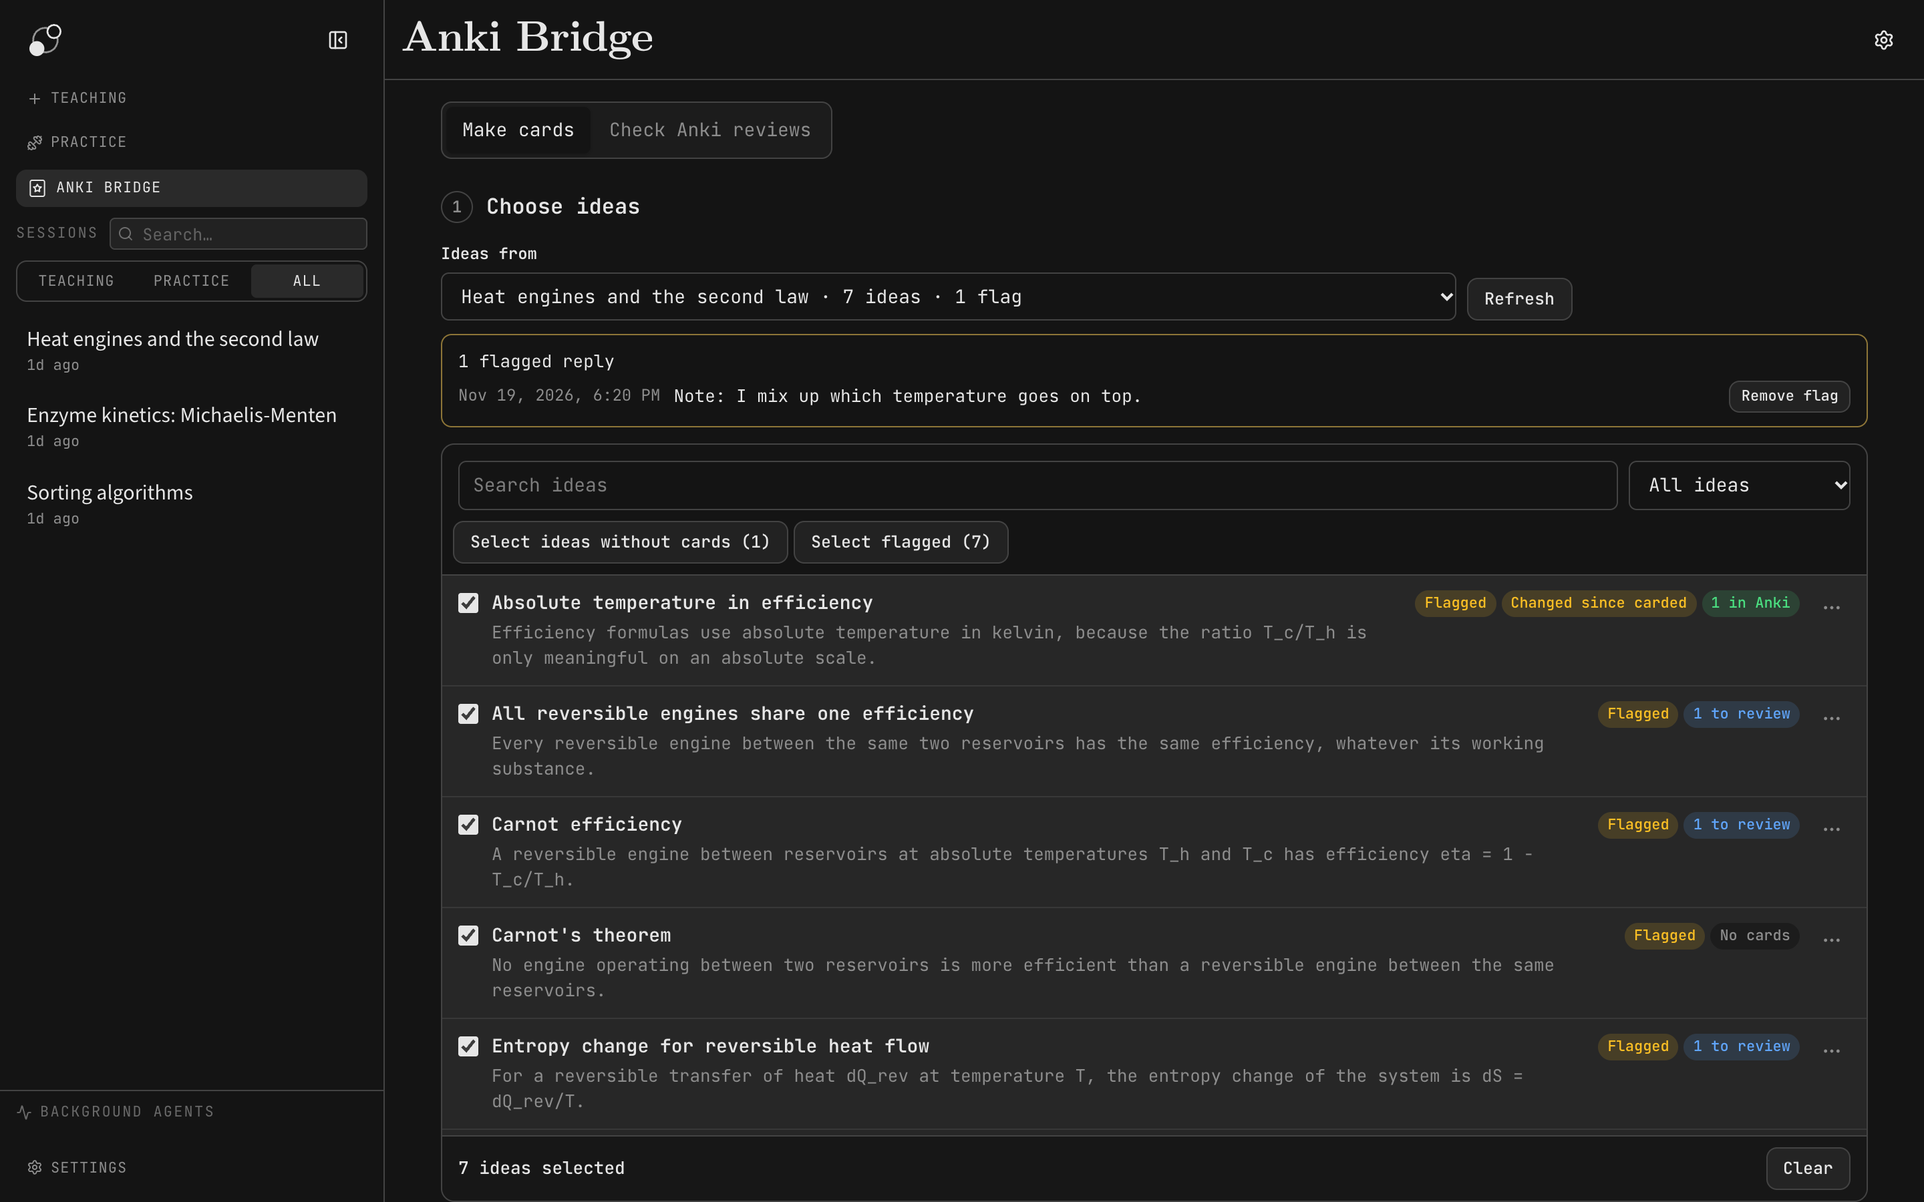
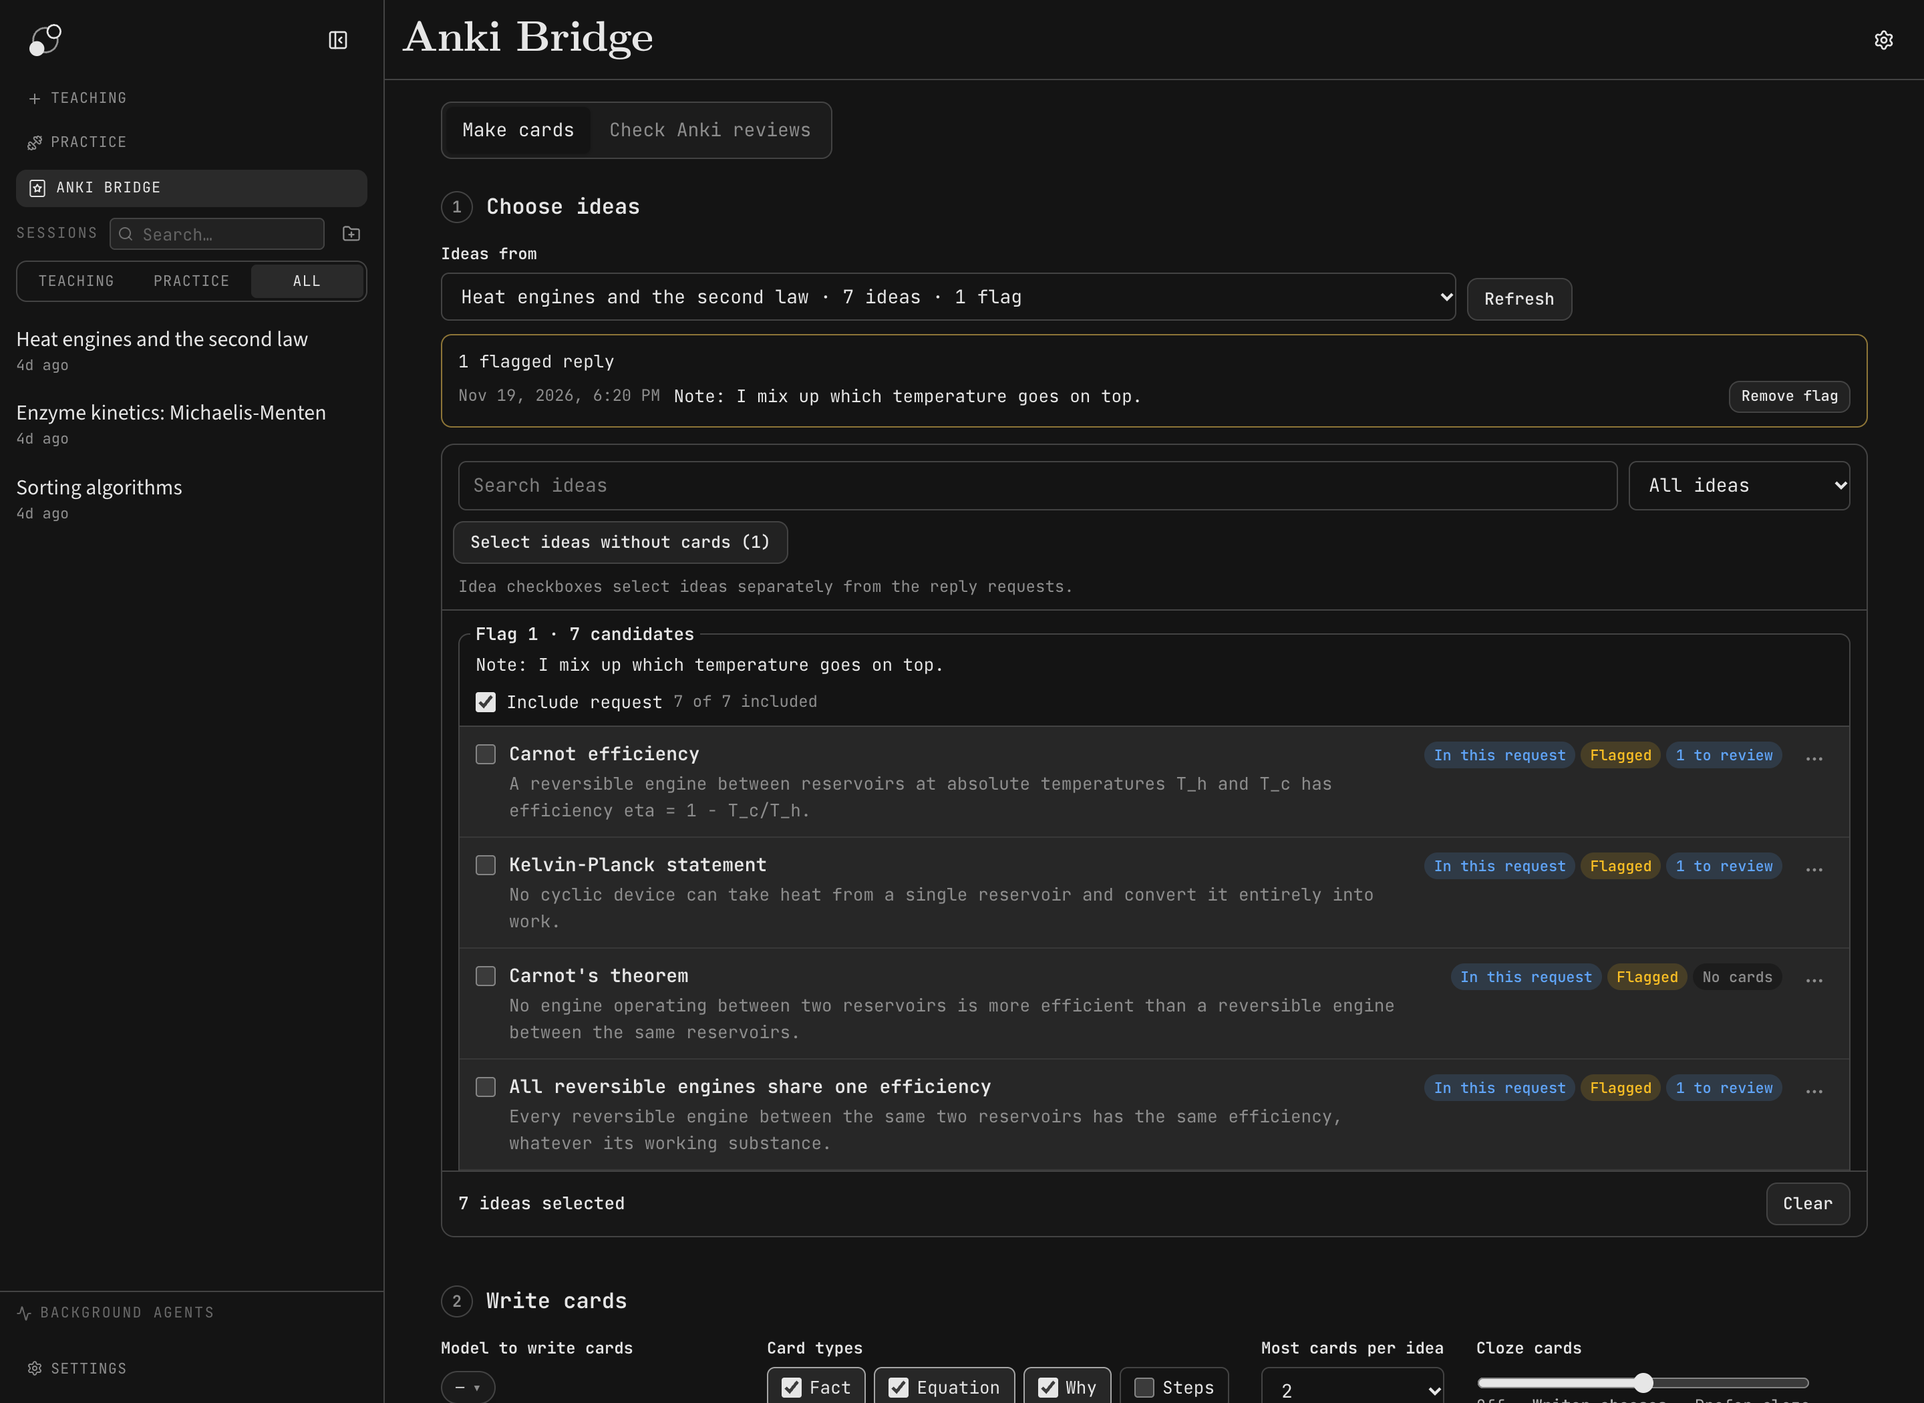
Bind picker requests to the flag revision shown

diff --git a/src/coverage-ui.ts b/src/coverage-ui.ts
@@ -8,7 +8,7 @@ export interface CoverageRow {
   id: string; name: string; statement: string; statementHash?: string;
   cards: CardCounts; coverage?: Coverage; flagged?: boolean;
 }
-export interface CoverageFlag { id: string; note: string; nodeIds: string[]; pendingNodeIds: string[] }
+export interface CoverageFlag { id: string; revision?: string; note: string; nodeIds: string[]; pendingNodeIds: string[] }
 export type CoverageView = Omit<CoverageContext, "nodes" | "missing" | "pairingKey"> & { nodes: CoverageRow[]; missing?: CoverageRow[]; pairingKey?: string; flags?: CoverageFlag[] };
 
 const DOTS = '<svg xmlns="http://www.w3.org/2000/svg" viewBox="0 0 24 24" width="16" height="16" fill="currentColor" aria-hidden="true"><circle cx="5" cy="12" r="1.8"/><circle cx="12" cy="12" r="1.8"/><circle cx="19" cy="12" r="1.8"/></svg>';
@@ -70,7 +70,7 @@ export class CoveragePicker {
     }
     this.scope.setAttribute("aria-label", "Show");
     this.search.type = "search"; this.search.placeholder = "Search ideas"; this.search.setAttribute("aria-label", "Search ideas");
-    const filter = () => { if (this.stale) return; this.selectionWarning.textContent = ""; this.prune(); this.options.changed("user"); this.render(); };
+    const filter = () => { if (this.stale) return; this.selectionWarning.textContent = ""; this.prune(true); this.options.changed("user"); this.render(); };
     this.search.oninput = filter; this.scope.onchange = filter;
     this.toolbar.append(this.search, this.scope);
     const { ctx, signal } = options;
@@ -92,8 +92,11 @@ export class CoveragePicker {
   get ids(): string[] { return [...this.selection()]; }
   get independentNodeIds(): string[] { return [...this.independent]; }
   get backfillNodeIds(): string[] { return this.independentNodeIds.filter(id => this.backfill.has(id)); }
-  get flagScopes(): { id: string; nodeIds: string[] }[] {
-    return [...this.scopes].map(([id, nodes]) => ({ id, nodeIds: [...nodes] }));
+  get flagScopes(): { id: string; revision?: string; nodeIds: string[] }[] {
+    return [...this.scopes].map(([id, nodes]) => {
+      const revision = this.view.flags?.find(f => f.id === id)?.revision;
+      return { id, ...(revision && { revision }), nodeIds: [...nodes] };
+    });
   }
   get isStale(): boolean { return this.stale; }
   get size(): number { return this.view.nodes.length; }
@@ -109,7 +112,7 @@ export class CoveragePicker {
   }
   private historical(n: CoverageRow): boolean { return !!this.view.missing?.includes(n) || n.coverage?.state === "source-missing"; }
   private eligible(n: CoverageRow): boolean { return !this.historical(n) && canSelectNode(n); }
-  private prune(allowed = new Set(this.visible().filter(n => this.eligible(n)).map(n => n.id))): void {
+  private prune(userFiltered: boolean, allowed = new Set(this.visible().filter(n => this.eligible(n)).map(n => n.id))): void {
     for (const id of this.independent) if (!allowed.has(id)) { this.independent.delete(id); this.backfill.delete(id); }
     const flags = new Map(this.view.flags?.map(f => [f.id, f]));
     for (const [id, nodes] of this.scopes) {
@@ -117,7 +120,7 @@ export class CoveragePicker {
       const matches = new Set(manual ? flag?.nodeIds : flag?.pendingNodeIds);
       for (const nodeId of nodes) {
         if (matches.has(nodeId) && allowed.has(nodeId)) continue;
-        if (!manual && matches.has(nodeId)) {
+        if (userFiltered && !manual && matches.has(nodeId)) {
           const pruned = this.prunedDefaults.get(id) ?? new Set<string>();
           pruned.add(nodeId); this.prunedDefaults.set(id, pruned);
         }
@@ -133,10 +136,14 @@ export class CoveragePicker {
     }
     const changed = JSON.stringify(this.view) !== JSON.stringify(view) || this.stale;
     const previousScopes = JSON.stringify(this.flagScopes);
+    const oldFlags = new Map(this.view.flags?.map(f => [f.id, f.revision]));
+    for (const flag of view.flags ?? []) if (oldFlags.has(flag.id) && oldFlags.get(flag.id) !== flag.revision) {
+      this.scopes.delete(flag.id); this.overriddenFlags.delete(flag.id); this.prunedDefaults.delete(flag.id);
+    }
     this.view = view; this.stale = false;
     this.selectionWarning.textContent = "";
     const allowed = new Set(this.visible().filter(n => this.eligible(n)).map(n => n.id));
-    this.prune(allowed);
+    this.prune(false, allowed);
     const scopes = new Map(this.scopes);
     for (const flag of view.flags ?? []) {
       if (this.overriddenFlags.has(flag.id)) continue;

diff --git a/tests/session-integration.test.ts b/tests/session-integration.test.ts
@@ -33,7 +33,8 @@ test('a session scope reaches writing with flagged and bulk intent, saved caps, 
   let dispose: void | (() => void | Promise<void>) = undefined;
   const cleanup: Array<() => void> = [];
   try {
-    await f.c.call('flag', { sessionId: 'c1', messageIds: ['m2'], note: 'Check the closed-system condition' });
+    const flag = await f.c.call('flag', { sessionId: 'c1', messageIds: ['m2'], note: 'Check the closed-system condition' });
+    const flagScopes = [{ id: flag.id, revision: flag.revision, nodeIds: ['n_b'] }];
     let view!: PluginView;
     const calls: Array<{ name: string; input: any }> = [];
     const ctx = {
@@ -59,14 +60,14 @@ test('a session scope reaches writing with flagged and bulk intent, saved caps, 
     assert.equal((container.querySelector('.ab-source-select') as unknown as HTMLSelectElement).value, 'c1');
     button(/^Write cards for 1 idea/).click();
     await until(() => !!dialog(), 'first estimate dialog');
-    assert.deepEqual(calls.filter(c => c.name === 'preflight').at(-1)?.input, { nodeIds: ['n_b'], backfillNodeIds: [] });
+    assert.deepEqual(calls.filter(c => c.name === 'preflight').at(-1)?.input, { nodeIds: ['n_b'], backfillNodeIds: [], flagScopes, independentNodeIds: [] });
     assert.match(dialog()!.textContent!, /Up to 12/);
     button('Cancel').click(); await settle();
     button('Select ideas without cards (2)').click(); await settle();
     assert.match(ideas().textContent!, /2 ideas selected/);
     button(/^Write cards for 2 ideas/).click();
     await until(() => !!dialog(), 'second estimate dialog');
-    assert.deepEqual(calls.filter(c => c.name === 'preflight').at(-1)?.input, { nodeIds: ['n_a', 'n_b'], backfillNodeIds: ['n_a', 'n_b'] });
+    assert.deepEqual(calls.filter(c => c.name === 'preflight').at(-1)?.input, { nodeIds: ['n_a', 'n_b'], backfillNodeIds: ['n_a', 'n_b'], flagScopes, independentNodeIds: ['n_a', 'n_b'] });
     button('Cancel').click(); await settle();
     assert.equal(calls.some(c => c.name === 'generate'), false);
     assert.equal(f.host.workers.starts.length, 0);
@@ -80,7 +81,7 @@ test('a session scope reaches writing with flagged and bulk intent, saved caps, 
     assert.match(dialog()!.textContent!, /Up to 16/);
     button('Start writing').click();
     await until(() => f.host.workers.starts.length === 1, 'generation start');
-    f.host.workers.succeed('task-1', { targets: ['n_a', 'n_b'].map(nodeId => ({ nodeId, cards: [{ kind: 'fact',
+    f.host.workers.succeed('task-1', { targets: ['n_a', 'n_b'].map(nodeId => ({ nodeId, ...(nodeId === 'n_b' ? { flagMatches: [flag.id] } : {}), cards: [{ kind: 'fact',
       front: 'Which condition is required for the first result in this lecture to hold?', back: 'Assumption A.' }] })) });
     await until(async () => {
       await settle(); // Include the panel's normal polling interval, not a manual refresh.
@@ -251,6 +252,7 @@ test('flag notes reach saved writer input and worker prompt; changing a note inv
     await f.c.call('flag', { sessionId: 'c1', messageIds: ['m1'], note: 'Explain why assumption A is necessary' });
     await assert.rejects(f.c.call('generate', { preflightId: old.preflightId }), /stale/);
     assert.equal(f.host.workers.starts.length, 0);
+    await assert.rejects(f.c.call('preflight', { ...selection, flagScopes: [{ ...selection.flagScopes[0], revision: flag.revision }] }), /flag or its ideas changed/);
     const p = await f.c.call('preflight', selection);
     const snapshot = await f.c.call('generate', { preflightId: p.preflightId });
     assert.deepEqual(snapshot.generations[0].tasks[0].input.flagRequests, [{ id: flag.id, note: 'Explain why assumption A is necessary', nodeIds: ['n_a'] }]);

diff --git a/src/generation/flag-selection.ts b/src/generation/flag-selection.ts
@@ -1,6 +1,6 @@
 import { flagRevision, matchFlag, MAX_FLAGS, type Flag, type FlagReference, type GraphLike } from '../session/flow.ts';
 
-export interface FlagScope { id: string; nodeIds: string[] }
+export interface FlagScope { id: string; revision?: string; nodeIds: string[] }
 export interface FlagSelection { scopes: FlagScope[]; independent: string[] }
 export interface ResolvedFlag extends FlagReference { note: string }
 
@@ -14,21 +14,21 @@ export function readFlagSelection(scopes: unknown, independent: unknown, ids: st
   }
   const seen = new Set<string>(), covered = new Set(independent);
   for (const scope of scopes) {
-    if (!scope || typeof scope.id !== 'string' || !scope.id || seen.has(scope.id) || !subset(scope.nodeIds) || !scope.nodeIds.length) {
+    if (!scope || typeof scope.id !== 'string' || !scope.id || seen.has(scope.id) || (scope.revision !== undefined && typeof scope.revision !== 'string') || !subset(scope.nodeIds) || !scope.nodeIds.length) {
       throw new Error('Invalid or duplicate flag scope. Refresh the picker.');
     }
     seen.add(scope.id);
     for (const id of scope.nodeIds) covered.add(id);
   }
   if (covered.size !== ids.length) throw new Error('Each selected idea must belong to a flag scope or be independently selected.');
-  return { scopes: scopes.map(({ id, nodeIds }) => ({ id, nodeIds })), independent };
+  return { scopes: scopes.map(({ id, nodeIds, revision }) => ({ id, nodeIds, ...(revision !== undefined && { revision }) })), independent };
 }
 
 export function resolveFlags(scopes: FlagScope[], flags: readonly Flag[], graph: GraphLike): ResolvedFlag[] {
   return scopes.map(scope => {
     const flag = flags.find(f => f.id === scope.id);
     const matches = flag && new Set(matchFlag(flag, graph));
-    if (!flag || !matches || scope.nodeIds.some(id => !matches.has(id))) {
+    if (!flag || !matches || (scope.revision !== undefined && scope.revision !== flagRevision(flag)) || scope.nodeIds.some(id => !matches.has(id))) {
       throw new Error('A selected flag or its ideas changed. Refresh and select the flag again.');
     }
     return { ...scope, revision: flagRevision(flag), note: flag.note };

diff --git a/src/session/service.ts b/src/session/service.ts
@@ -6,7 +6,7 @@ import { graphCoverage, statementHash } from '../coverage/service.ts';
 import type { Coverage, CoverageNode } from '../coverage/flow.ts';
 import { extractedMessageIds } from './extraction.ts';
 import {
-  failedOutputCallIds, flagIdeaHandled, matchFlag, MAX_FLAG_MESSAGES, MAX_FLAGS, normalizeNote, sessionNodeIds, teacherProse,
+  failedOutputCallIds, flagIdeaHandled, flagRevision, matchFlag, MAX_FLAG_MESSAGES, MAX_FLAGS, normalizeNote, sessionNodeIds, teacherProse,
 } from './flow.ts';
 import type { CardCounts, Flag, GraphLike, MessageLike } from './flow.ts';
 
@@ -89,14 +89,15 @@ export class SessionService {
     return flags.map(flag => {
       const nodeIds = matchFlag(flag, graph);
       const pendingNodeIds = nodeIds.filter(id => !flagIdeaHandled(flag, id, statementHash(statements.get(id)!)));
+      const scope = { revision: flagRevision(flag), nodeIds, pendingNodeIds };
       if (!records.has(flag.sessionId)) records.set(flag.sessionId, this.session(flag.sessionId));
       const record = records.get(flag.sessionId);
-      if (!record || flag.messageIds.some(id => !record.messages.some(m => m.id === id))) return { ...flag, status: 'missing', nodeIds, pendingNodeIds };
-      if (nodeIds.length) return { ...flag, status: 'matched', nodeIds, pendingNodeIds };
+      if (!record || flag.messageIds.some(id => !record.messages.some(m => m.id === id))) return { ...flag, status: 'missing', ...scope };
+      if (nodeIds.length) return { ...flag, status: 'matched', ...scope };
       ledger ??= this.covered();
       const covered = new Set(ledger.filter(e => e.chatId === flag.sessionId).map(e => e.fp));
       const extracted = extractedMessageIds(record.messages, covered, flag.messageIds);
-      return { ...flag, status: flag.messageIds.every(id => extracted.has(id)) ? 'no-nodes' : 'waiting', nodeIds, pendingNodeIds };
+      return { ...flag, status: flag.messageIds.every(id => extracted.has(id)) ? 'no-nodes' : 'waiting', ...scope };
     });
   }
 

diff --git a/tests/coverage-ui.test.ts b/tests/coverage-ui.test.ts
@@ -247,6 +247,25 @@ test("session bulk picks stay independent of grouped matches and filters prune b
   } finally { await f.close(); }
 });
 
+test("pending flag choices return after a failed run and note edits reset old group choices", async () => {
+  const f = setup();
+  try {
+    const flags = [{ ...flag("request", ["alpha"]), revision: "original" }];
+    const view = { ...f.view, nodes: [row("alpha", {}, { flagged: true })], flags };
+    f.picker.update(view, true);
+    assert.equal(f.includeFlag(1).checked, true);
+    f.picker.update({ ...view, nodes: [row("alpha", { generating: true, selectable: false })] });
+    assert.equal(f.includeFlag(1).checked, false);
+    f.picker.update(view);
+    assert.equal(f.includeFlag(1).checked, true);
+    f.includeFlag(1).click();
+    f.picker.update(view);
+    assert.equal(f.includeFlag(1).checked, false);
+    f.picker.update({ ...view, flags: [{ ...flags[0], revision: "edited", note: "New focus" }] });
+    assert.deepEqual(f.picker.flagScopes, [{ id: "request", revision: "edited", nodeIds: ["alpha"] }]);
+  } finally { await f.close(); }
+});
+
 test("current dismissal remains visible and restorable when the primary label is Sent", async () => {
   const f = setup();
   try {

diff --git a/README.md b/README.md
@@ -36,7 +36,7 @@ Anki Bridge is a community plugin for [LearnHarness](https://github.com/amosblom
 
 ### Flag replies while you learn
 
-When a teaching reply covers something you want to keep, press **Flag for Anki** in the session's top bar. This flags the latest finished reply and every idea LearnHarness extracts from it. You can add a note for the card writer, such as a mistake you made. Cmd+Shift+A, or Ctrl+Shift+A on Windows and Linux, flags the reply straight away, and the confirmation offers to add a note. **Make cards** in the same bar opens Anki Bridge with the session's pending flagged ideas ticked. Once the writer saves a draft for a flagged idea, it stops being ticked by default. You can still pick it by hand or use **Select flagged**.
+When a teaching reply covers something you want to keep, press **Flag for Anki** in the session's top bar. This flags the latest finished reply. Without a note, the flag asks for a card for each idea LearnHarness extracts from the reply. Add a note, such as a mistake you made, to ask the writer to focus on the ideas that answer it. Cmd+Shift+A, or Ctrl+Shift+A on Windows and Linux, flags the reply straight away and offers to add a note.
 
 Flagging is optional. You can make cards for any idea in your graph.
 
@@ -44,9 +44,11 @@ Flagging is optional. You can make cards for any idea in your graph.
 
 Open **Anki Bridge** from the LearnHarness sidebar. The **Make cards** tab has three steps, top to bottom.
 
-Under **Ideas from**, pick a session or your whole graph, then tick the ideas you want cards for. Each idea has a badge such as Flagged, No cards, 1 to review, 1 in Anki or Changed since carded. **Select ideas without cards** ticks every idea in the current view that has none, up to 1,000. To leave an idea out of future card writing, choose **Don't make cards for this idea** from its menu.
+Under **Ideas from**, pick a session or your whole graph. **Make cards** in the session bar takes you straight to that session. Each reply flag groups its candidate ideas and starts included if its request is still pending. Use **Include request** to turn the group on or off. The checkbox next to an idea selects it separately, even if you turn off its flag.
 
-![Step 1, Choose ideas. A flag banner with the note about temperatures sits above a list of ideas from the heat engines session with badges such as Flagged, No cards, 1 to review, 1 in Anki and Changed since carded. A bar at the bottom reads 7 ideas selected.](docs/images/readme/choose-ideas.png)
+Once the writer satisfies a flag request, it stops being included by default. You can still select it again or tick an idea on its own. **Select ideas without cards** ticks ideas in the current view that have none, up to 1,000. To leave an idea out of future writing, choose **Don't make cards for this idea** from its menu.
+
+![Choose ideas in the heat engines session. A reply flag groups seven candidates under a note about temperatures. Include request is checked and the checkboxes for picking ideas separately are clear.](docs/images/readme/choose-ideas.png)
 
 ### 2. Write cards
 

diff --git a/CHANGELOG.md b/CHANGELOG.md
@@ -4,7 +4,7 @@ Newest first. Versions before 0.9.0 were merged to `main` for personal use while
 
 | Version | Pull request | Changes |
 | --- | --- | --- |
-| 0.9.1 | [Integration branch](https://github.com/Singh-Mehtab/learnharness-anki-bridge/compare/main...feat/0.9.1) | Adds single-blank Cloze cards for Fact and Equation, with a Cloze slider and a model reasoning picker in Write. Shows the version next to the Settings title, lets you undo approval before sending, checks for repeated recall tasks across a writing run and saves Writer notes. Upgrades state to schema 9 with a pre-upgrade backup. |
+| 0.9.1 | [Integration branch](https://github.com/Singh-Mehtab/learnharness-anki-bridge/compare/main...feat/0.9.1) | Adds single-blank Cloze cards for Fact and Equation, with a Cloze slider and a model reasoning picker in Write. Shows the version next to the Settings title, lets you undo approval before sending, checks for repeated recall tasks across a writing run and saves Writer notes. Groups reply flags in Make cards, sends each selected flag note once, and stops preselecting handled requests. Offers separate idea dismissal after dropping the last draft. Upgrades state to schema 9 with a pre-upgrade backup. |
 | 0.9.0 | [#48](https://github.com/Singh-Mehtab/learnharness-anki-bridge/pull/48) | Prepares the first public release. Install instructions point to the GitHub release zip, the README lists what has been tested and how to report problems, and the bench notes record that card quality was judged from daily use rather than a further benchmark. Plugin behaviour is the same as 0.8.3. |
 | 0.8.3 | [#49](https://github.com/Singh-Mehtab/learnharness-anki-bridge/pull/49) | Mark a downloaded package as imported, with Undo until the panel closes. Imported cards count in coverage and cannot be sent or packaged again. |
 | 0.8.2 | [#47](https://github.com/Singh-Mehtab/learnharness-anki-bridge/pull/47) | Shortens interface copy, adds a card icon, and brings review checks into the Anki Bridge page. Review results link to their source sessions. |
